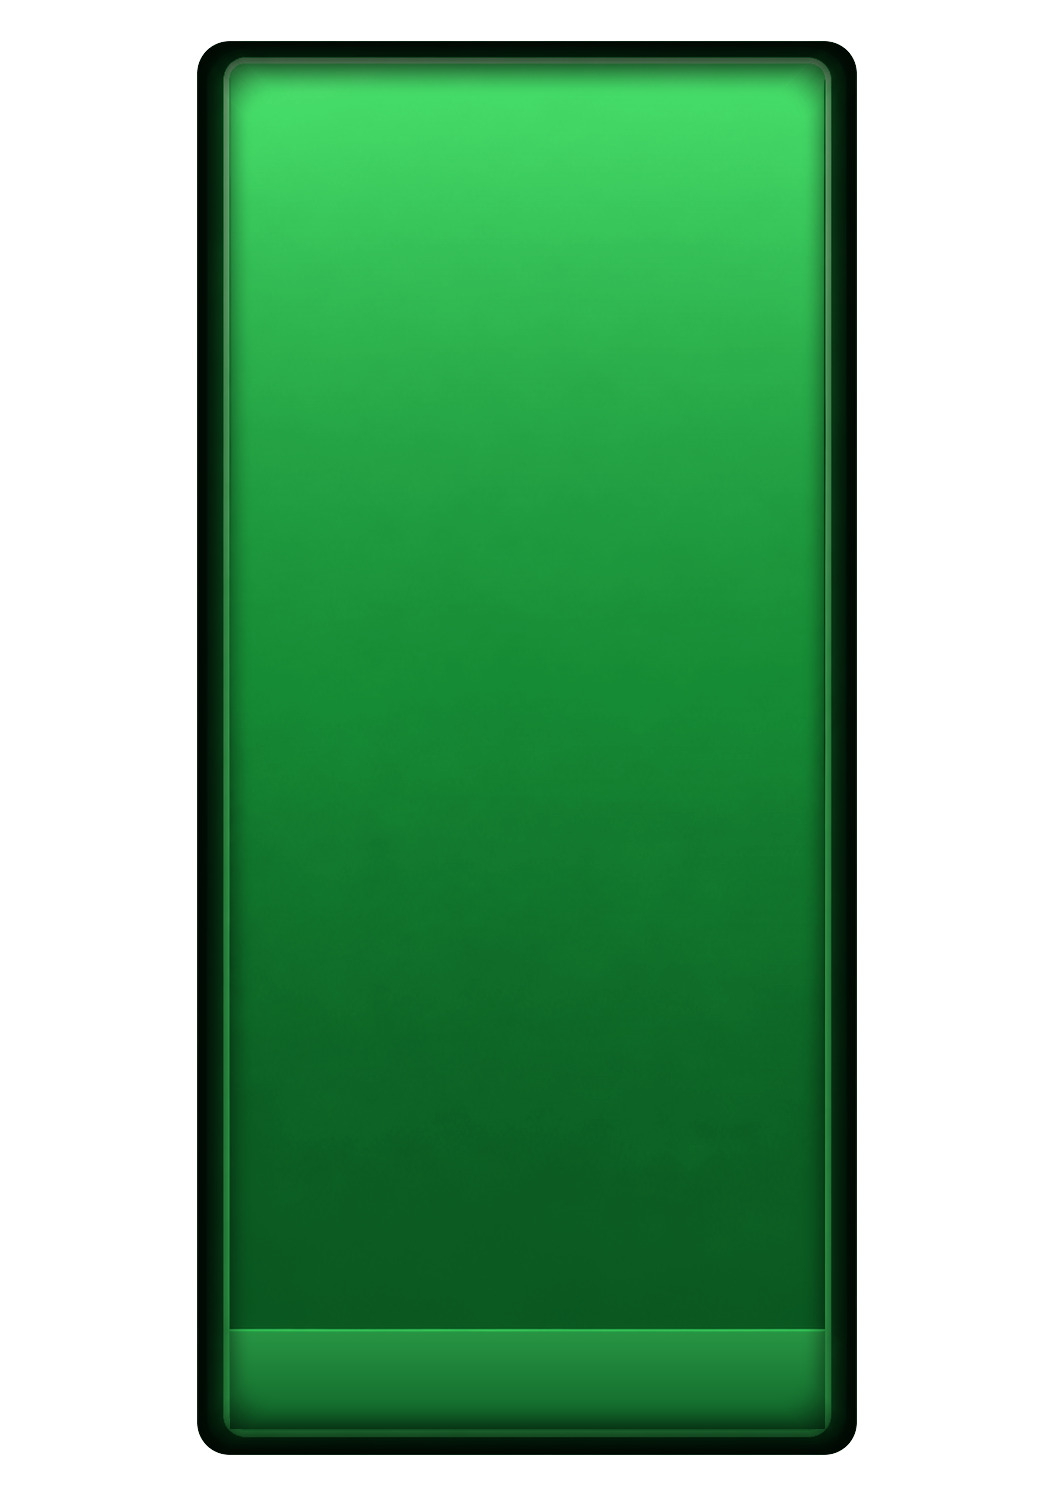
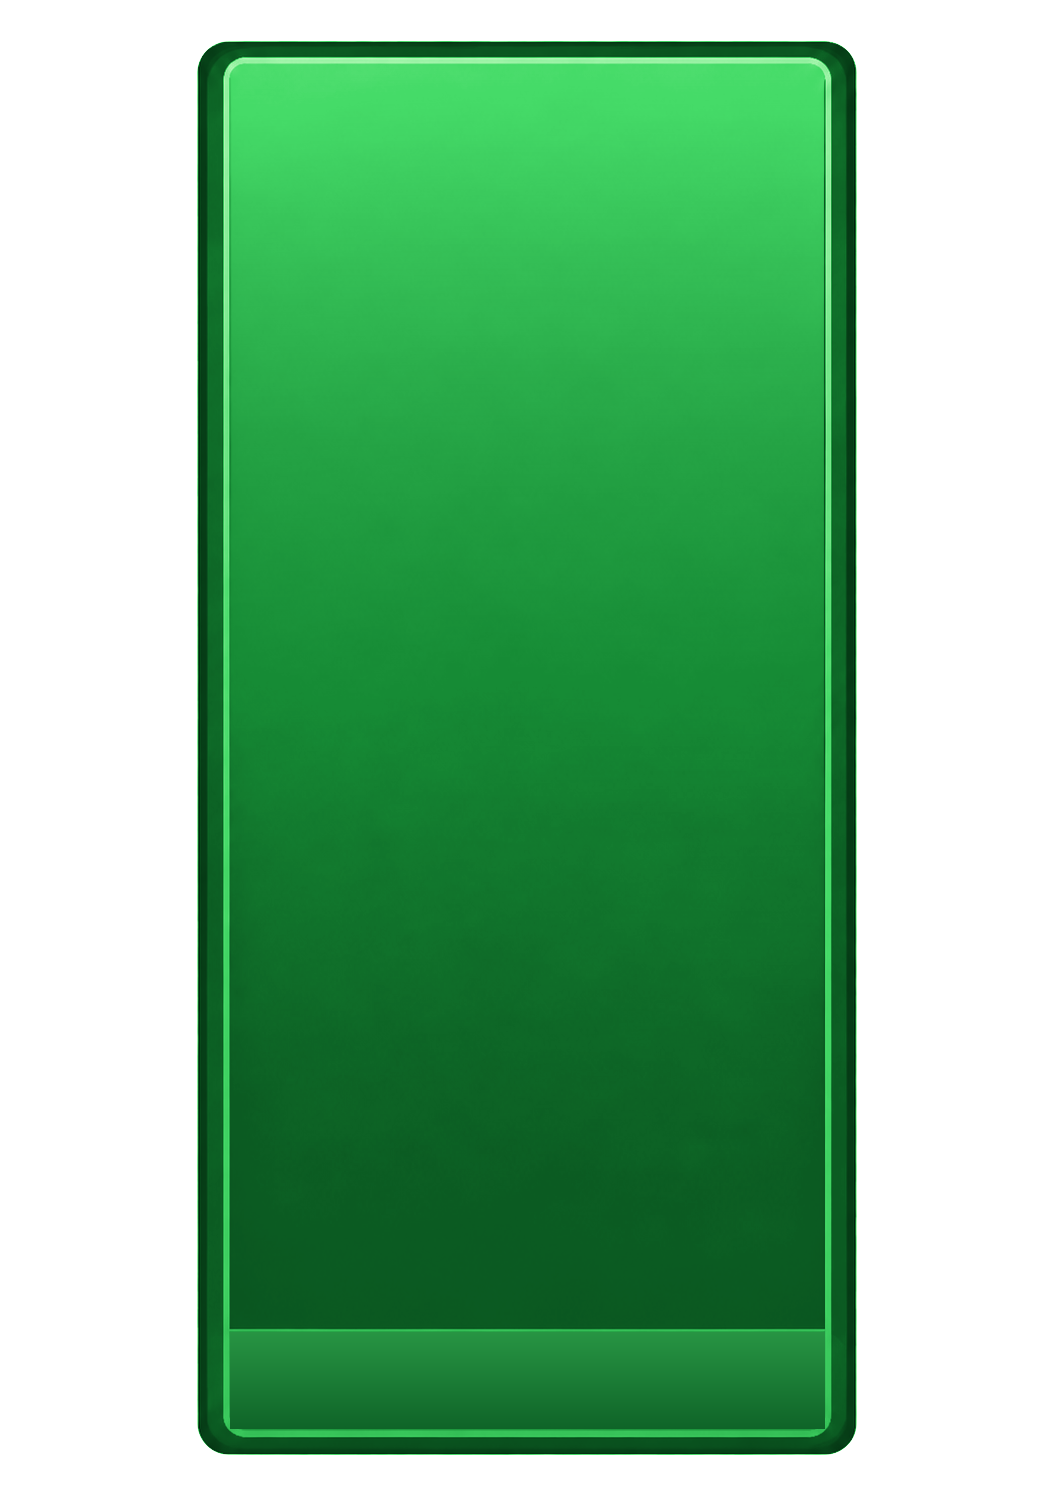
added spell bonuses under lvl

Changed region(s): [[0.1822, 0.0, 0.8197, 0.9866]]

diff --git a/spells.md b/spells.md
@@ -623,12 +623,16 @@ hand-registered, dropping a `.tres` in is enough:
 - `resources/spells/` → **exactly the 20 catalog spells** from Section 4.
   All v1-era spells (`basic_bolt`, `basic_aoe`, `basic_passive`) are
   **deleted**.
-- `resources/upgrades/` → 3 stat upgrade cards: "Sharpening" (+15%
-  damage, stackable ×4), "Quickened" (faster fire rate, ×3), "Fortify"
-  (+200 HP, ×5). Epic-03-era cards, kept as slot-free filler. Delete
-  their `.tres` files to remove them — no code involved.
+- `resources/upgrades/` → 8 stat upgrade cards: the original 3
+  Epic-03-era ones — "Sharpening" (+15% damage, **all schools**,
+  stackable ×4), "Quickened" (faster fire rate, ×3), "Fortify" (+200 HP,
+  ×5) — plus 5 newer **school-scoped** damage cards, one per school:
+  "Fire/Frost/Void/Poison/Nature Dmg Increase" (+20% damage, **that
+  school's spells only**, Rare, stackable ×4, green cardback — see §6.9).
+  Slot-free filler either way. Delete a `.tres` file to remove that card —
+  no code involved.
 
-A draft rolls 3 cards from those 23, weighted by rarity: **Common 60 /
+A draft rolls 3 cards from those 28, weighted by rarity: **Common 60 /
 Rare 30 / Epic 10** (`RARITY_WEIGHTS` in `draft_manager.gd`).
 `SpellRegistry` prints the loaded counts on startup as a sanity check.
 
@@ -691,11 +695,71 @@ Most damage spells carry `[Offense]`, the Nature/heal spells `[Armor]`,
 Glacier Lance and Blizzard `[Utility]`. Duplicate picks count too.
 Thresholds at ×3 and ×5 grant the v1 bonuses (unchanged Epic-03 system).
 
-### 6.8 Where to change things (no code, ever)
+### 6.9 Per-school damage upgrades (the 5 "`<School> Dmg Increase`" cards)
+
+Same `StatUpgradeDefinition` class as Sharpening/Quickened/Fortify, just
+two extra fields filled in: `scoped_damage_type` (a `Constants.DamageType`;
+`-1` = applies to all schools, which is what the original 3 cards leave it
+at) and `bg_texture_override` (a `Texture2D` — when set, the draft card
+uses this instead of the normal rarity-tinted background). Nothing about
+the card *class* or the draft/eligibility/stacking system changed — these
+are ordinary upgrade cards that happen to fill in two more optional
+fields, same pattern `SpellDefinition`'s per-archetype fields already use.
+
+- **Damage math**: `GameState.school_damage_multiplier` is a
+  `Constants.DamageType -> float` dict, separate from the flat
+  `tower_damage_multiplier` Sharpening feeds. `apply_card()` multiplies
+  into one or the other depending on whether `scoped_damage_type == -1`.
+  Every damage-archetype script (`standard_bolt`, `chain_bolt`, `orb`,
+  `aoe_area`, `line_aoe_bolt`) reads both:
+  `spell.damage * GameState.tower_damage_multiplier *
+  GameState.get_school_damage_multiplier(spell.damage_type) *
+  GameState.offense_damage_mult * GameState.get_spell_damage_multiplier(...)`
+  — a school nobody has drafted a scoped card for just multiplies by
+  `1.0`, no branching anywhere.
+- **Draft card look**: `draft_card.gd`'s `_get_bg_style()` uses
+  `bg_texture_override` instead of the rarity texture when the card sets
+  one; `_refresh_glow()` matches the glow color to it too (green, not the
+  rarity-tinted blue/purple/gray) so the halo doesn't clash with the
+  background. The type pill shows the scoped school's name/color (same
+  treatment a spell card's `damage_type` pill gets) instead of a synergy
+  tag. Rank pips are already hidden for every `StatUpgradeDefinition`
+  (unchanged, existing behavior) — these cards are no exception.
+- **Icon convention**: same ID-based lookup as everything else
+  (`assets/ui/upgrades/icon_<upgrade_id>.png`) — void's is named
+  `icon_upgrade_damage_shadow.png` (`upgrade_id = "upgrade_damage_shadow"`)
+  matching the project's existing convention that void's non-per-spell
+  icons use "shadow", not "void" (e.g. `icon_bonus_shadow.png`).
+- **Shared card background asset**: `assets/ui/draft/ui_card_bg_green.png`
+  — named with the same `ui_card_bg_` prefix the other 3 rarity textures
+  use, **not incidentally**: the editor plugin `addons/ui_icon_cap/`
+  auto-caps every image under `assets/ui/` at import, picking the size
+  limit by filename prefix (`ui_card_bg_*` → 512px, everything
+  unmatched → 256px default). A differently-named file for this same
+  purpose would silently get imported at half the resolution of its
+  siblings — rename any future shared card-background asset to match this
+  prefix, don't add a one-off rule to the plugin.
+- **HUD readout**: the existing left-side owned-spells HUD row
+  (`SpellStackRow` widget, `scenes/ui/widget/spell_stack_row/`) grew a
+  `source` export (`Spells` / `Upgrades`) so the identical scene/script
+  now also drives a **right-side row of owned upgrade cards** (all of
+  them, not just the school-scoped 5), instanced a second time in
+  `game_world.tscn` as `UpgradeStackRow`, reading
+  `GameState.get_active_upgrades()` / `get_upgrade_stack_count()`. Root
+  node is an `HFlowContainer`, not `HBoxContainer` — once a row's cells
+  stop fitting its assigned width it wraps onto a new line on its own.
+  Both rows are 360px wide (fits 5 icons before wrapping) and inset
+  170px from their own screen edge (`170–530` left, `550–910` right) —
+  a deliberate mirror, not independently tuned.
+
+### 6.10 Where to change things (no code, ever)
 
 - **One spell's numbers** (damage, cooldown, range, radius, speed,
   `stack_max`, rarity, tags, orbit radius…): its `.tres` in
   `resources/spells/`, in the Inspector.
+- **One upgrade card's numbers** (`hp_bonus`, `damage_multiplier`,
+  `fire_rate_multiplier`, `scoped_damage_type`, `stack_max`, rarity,
+  `bg_texture_override`): its `.tres` in `resources/upgrades/`.
 - **School perk strength, ring radii, default ranges, volley stagger,
   bounce/lance defaults**: `autoloads/constants.gd`.
 - **Model look** (scale/rotation of bolt, lance, chain, orb, zone

diff --git a/components.md b/components.md
@@ -110,9 +110,8 @@ res://
 │   │   ├── spell_<archetype>_<school>.tres  # the 20 catalog spells (spells.md §4)
 │   ├── upgrades/
 │   │   ├── stat_upgrade_definition.gd
-│   │   ├── upgrade_damage.tres
-│   │   ├── upgrade_fire_rate.tres
-│   │   └── upgrade_max_hp.tres
+│   │   ├── upgrade_damage.tres      # all-schools; upgrade_fire_rate.tres, upgrade_max_hp.tres alongside
+│   │   └── upgrade_damage_<school>.tres  # 5 school-scoped cards (spells.md §6.9)
 │   ├── towers/
 │   │   ├── tower_definition.gd
 │   │   └── tower_ancient_tower.tres
@@ -239,7 +238,16 @@ Signals (grouped):
 **What it does**: Single source of truth for the in-progress run — phase, wave
 number, level/XP, tower stat totals (base + bonuses from drafted cards/stars),
 active spells, tag counts, active synergy flags, run stats (kills, waves
-cleared, damage dealt).
+cleared, damage dealt). Also tracks owned stat-upgrade cards: `active_upgrades`
+(distinct picks, in pick order — mirrors `Tower._active_spells`) and
+`upgrade_stacks` (`upgrade_id -> pick count`, mirrors `Tower._spell_stacks`),
+read by the right-side HUD row (`SpellStackRow` widget, `source = Upgrades`
+instance — see `spells.md` §6.9). Damage multipliers
+split into a flat one (`tower_damage_multiplier`, every school) and a
+per-school one (`school_damage_multiplier: Dictionary`, `Constants.DamageType
+-> float`) fed by the 5 scoped upgrade cards — every damage-archetype script
+multiplies by both via `GameState.get_school_damage_multiplier(spell.damage_type)`
+(a plain dict lookup defaulting to `1.0`, no `match`/branching).
 
 Key methods (each does ONE thing — if you find yourself adding unrelated logic
 to one of these, it belongs in a new method or a new autoload, not bolted on):
@@ -251,7 +259,13 @@ to one of these, it belongs in a new method or a new autoload, not bolted on):
 - `add_tag(tag)` — increment `tag_counts[tag]`, check threshold, call
   `_apply_synergy_bonus()`.
 - `apply_card(card)` — dispatch to spell-add or stat-delta logic based on
-  card's Resource type.
+  card's Resource type. For a `StatUpgradeDefinition`: `hp_bonus`/
+  `fire_rate_multiplier` unchanged; `damage_multiplier` goes into
+  `tower_damage_multiplier` when `scoped_damage_type == -1`, otherwise into
+  `school_damage_multiplier[scoped_damage_type]` instead; also appends to
+  `active_upgrades` (first pick) and increments `upgrade_stacks` (every pick).
+- `get_school_damage_multiplier(damage_type)`, `get_active_upgrades()`,
+  `get_upgrade_stack_count(upgrade_id)` — read-only accessors for the above.
 - `_apply_synergy_bonus(tag, level)` — the one `match` statement allowed to
   grow over time (see `mechanics.md` Section 6); every other piece of game
   logic should read the resulting flags/multipliers from `GameState`, not
@@ -473,7 +487,17 @@ scene to use — `projectile.tscn` or `Arcprojectile.tscn`).
 **What it does**: `class_name StatUpgradeDefinition extends Resource`. Fields:
 `upgrade_id`, `upgrade_name`, `description`, `icon`, `rarity`,
 `tags: Array[SynergyTag]`, `hp_bonus`, `damage_multiplier`,
-`fire_rate_multiplier`, `is_stackable`, `stack_max`.
+`fire_rate_multiplier`, `is_stackable`, `stack_max`, plus two added for the
+5 school-scoped "`<School> Dmg Increase`" cards (`resources/upgrades/
+upgrade_damage_fire.tres` etc.): `scoped_damage_type: int = -1` (a
+`Constants.DamageType`; `-1` = applies to all schools — the original
+behavior, unchanged for Sharpening/Quickened/Fortify) and
+`bg_texture_override: Texture2D = null` (draft-card background that wins
+over the normal rarity-tinted lookup when set — how the green cardback
+works). `GameState.apply_card()` reads `scoped_damage_type` to decide
+whether a pick multiplies the flat `tower_damage_multiplier` or one entry
+of the new per-school `school_damage_multiplier` dict instead (see
+`GameState.gd` below and `spells.md` §6.5).
 
 ### `chapter_definition.gd`
 **What it does**: `class_name ChapterDefinition extends Resource`. Fields:

diff --git a/ui_assets.md b/ui_assets.md
@@ -22,7 +22,16 @@
 > The rule is about **how big the thing is drawn, not the `icon_` prefix**. Four
 > files missed it for exactly that reason and are capped now: `ui_star_filled`,
 > `ui_star_empty` (the garage puts up to 35 stars on screen at once),
-> `ui_notification_badge`, and `icon_stat_level`.
+> `ui_notification_badge`, and `icon_stat_level`. Same trap bit the green
+> school-upgrade card background: it was originally named
+> `ui_spell_draft_card_green_transparent.png`, which doesn't start with
+> `ui_card_bg` (the rule that gives the other 3 card textures a 512px cap),
+> so it silently fell back to the 256px default — half its siblings'
+> resolution, visibly softer/blurrier once stretched to the same on-screen
+> card size. Renamed to `ui_card_bg_green.png` to match the existing 3
+> (`ui_card_bg_common/rare_v2/epic_v3.png`) rather than adding a one-off
+> rule — same fix as the four above, do this for any future shared
+> card-background asset instead of special-casing the plugin.
 
 > Reorganized 2026-07-27. One tree: per-screen folders + shared folders
 > (the old flat `assets/ui/` and `assets/ui_spellsdraft/` are gone).
